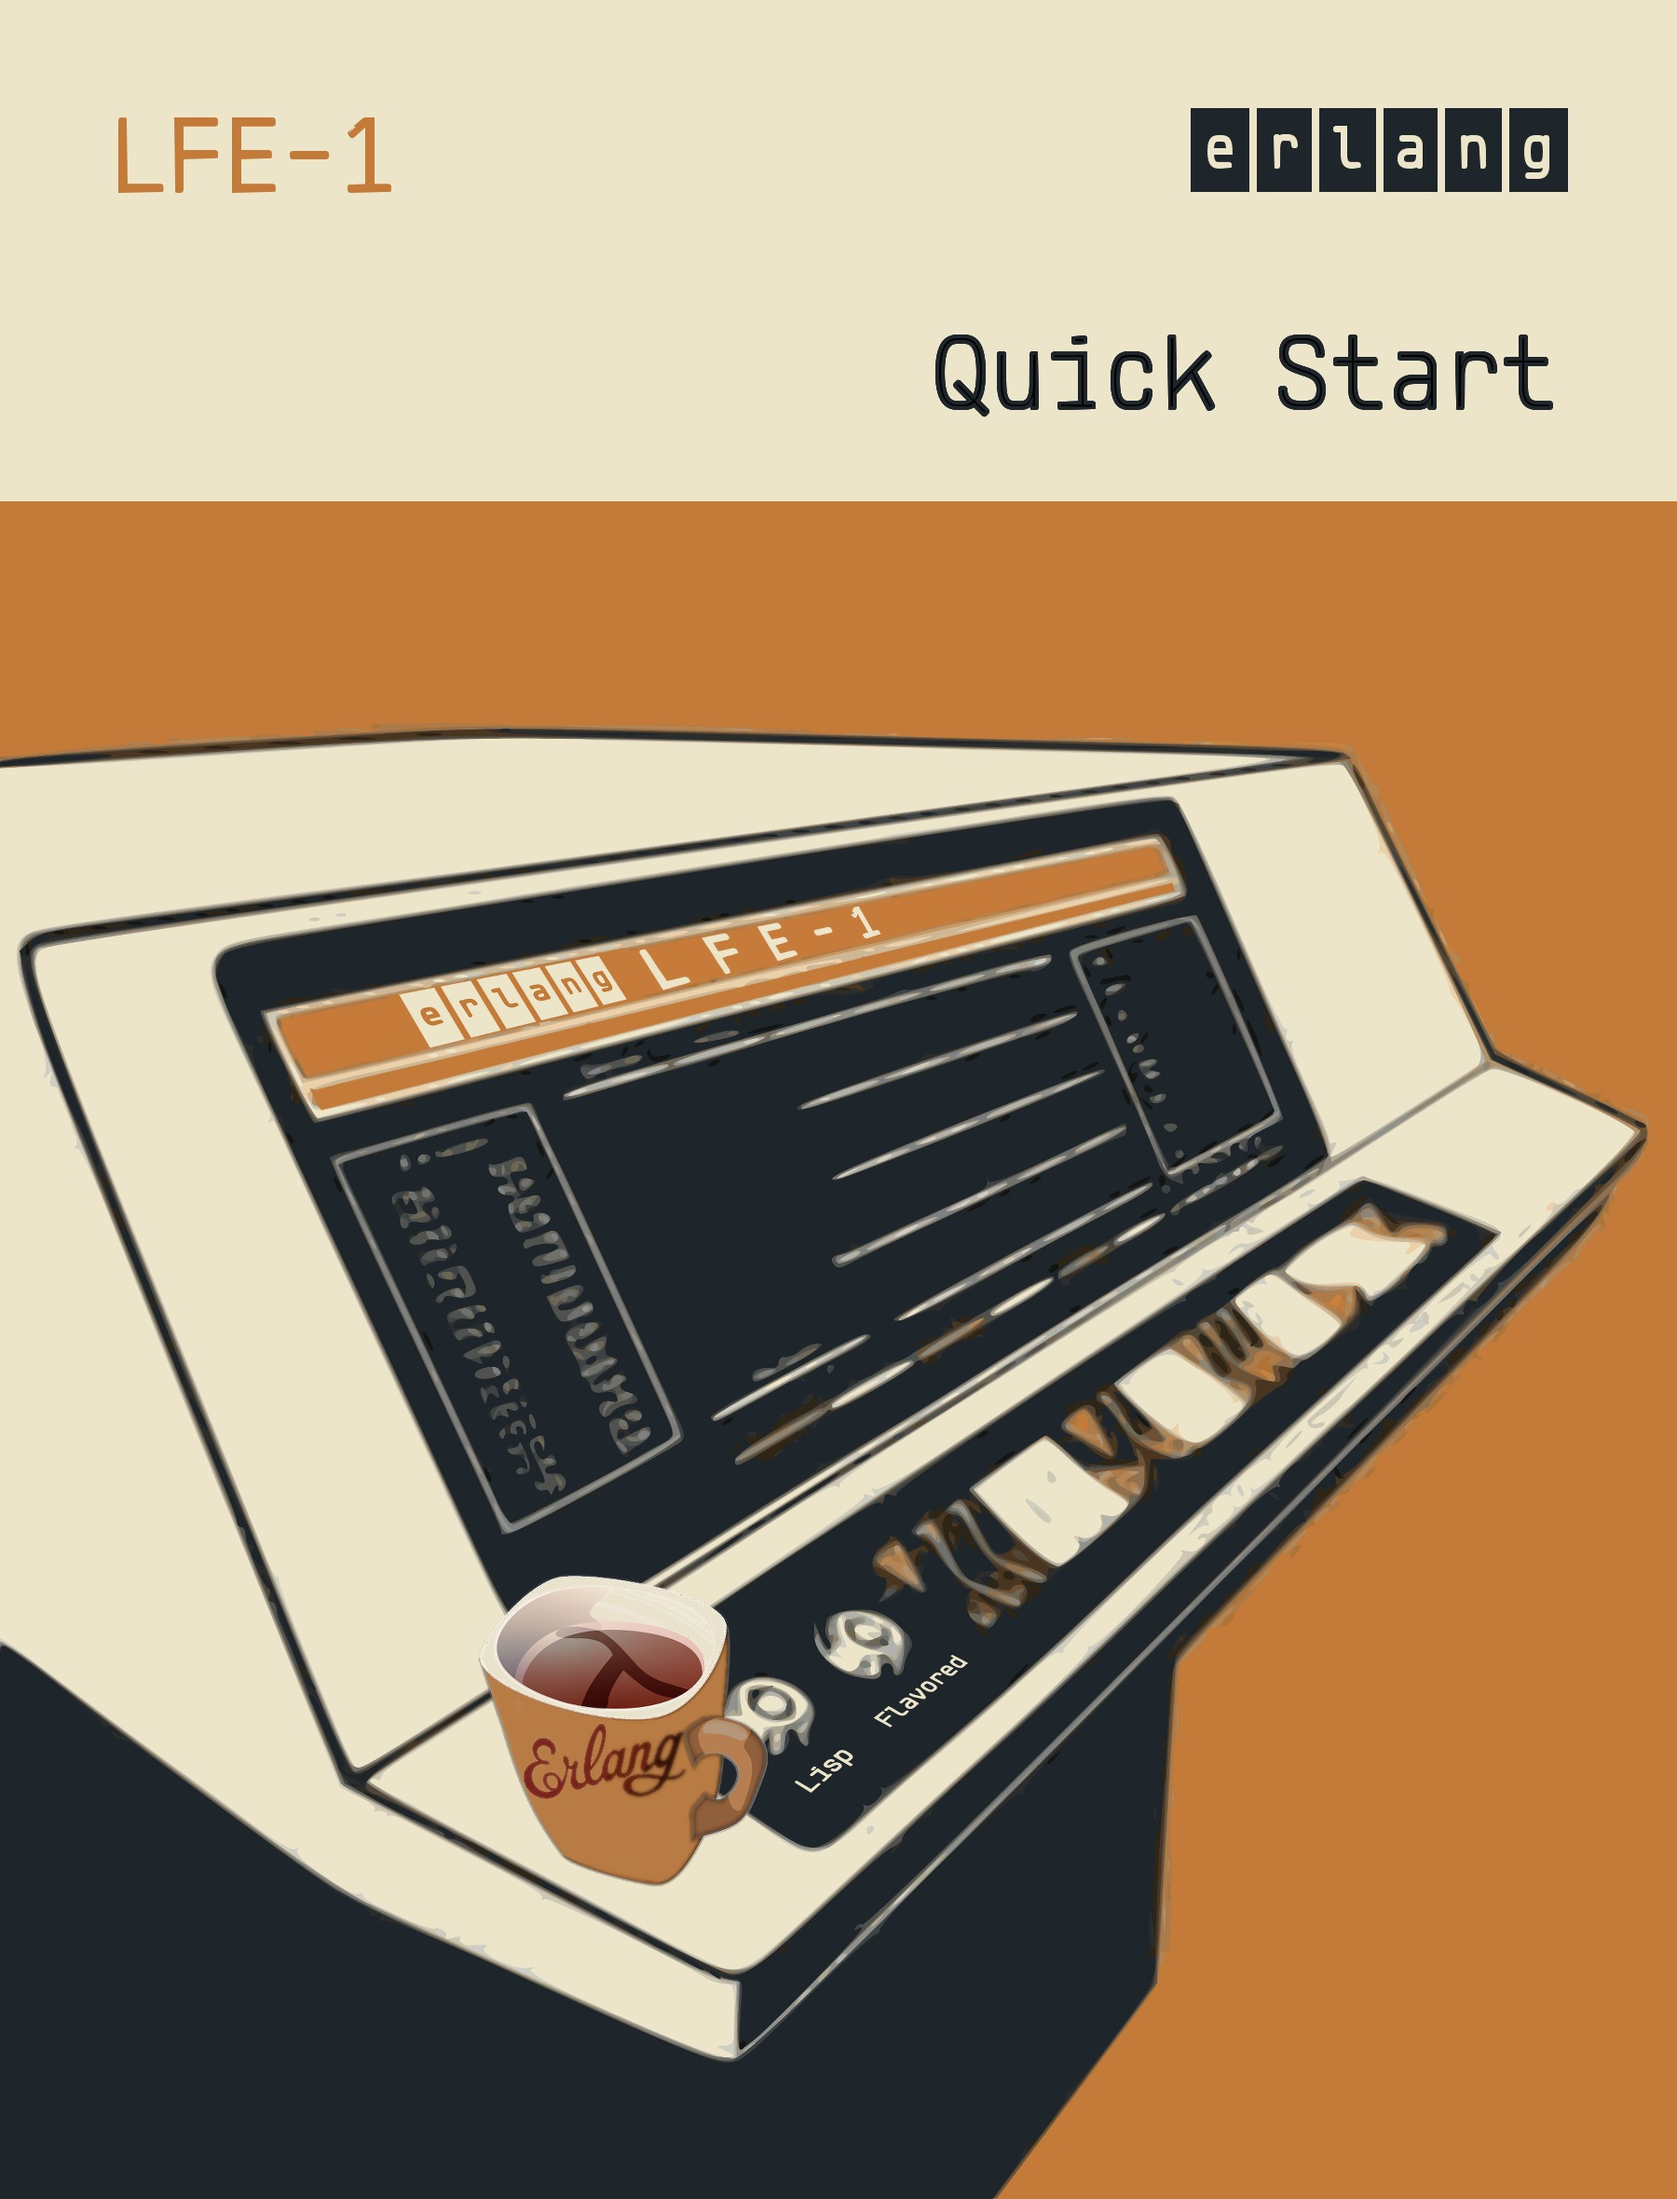
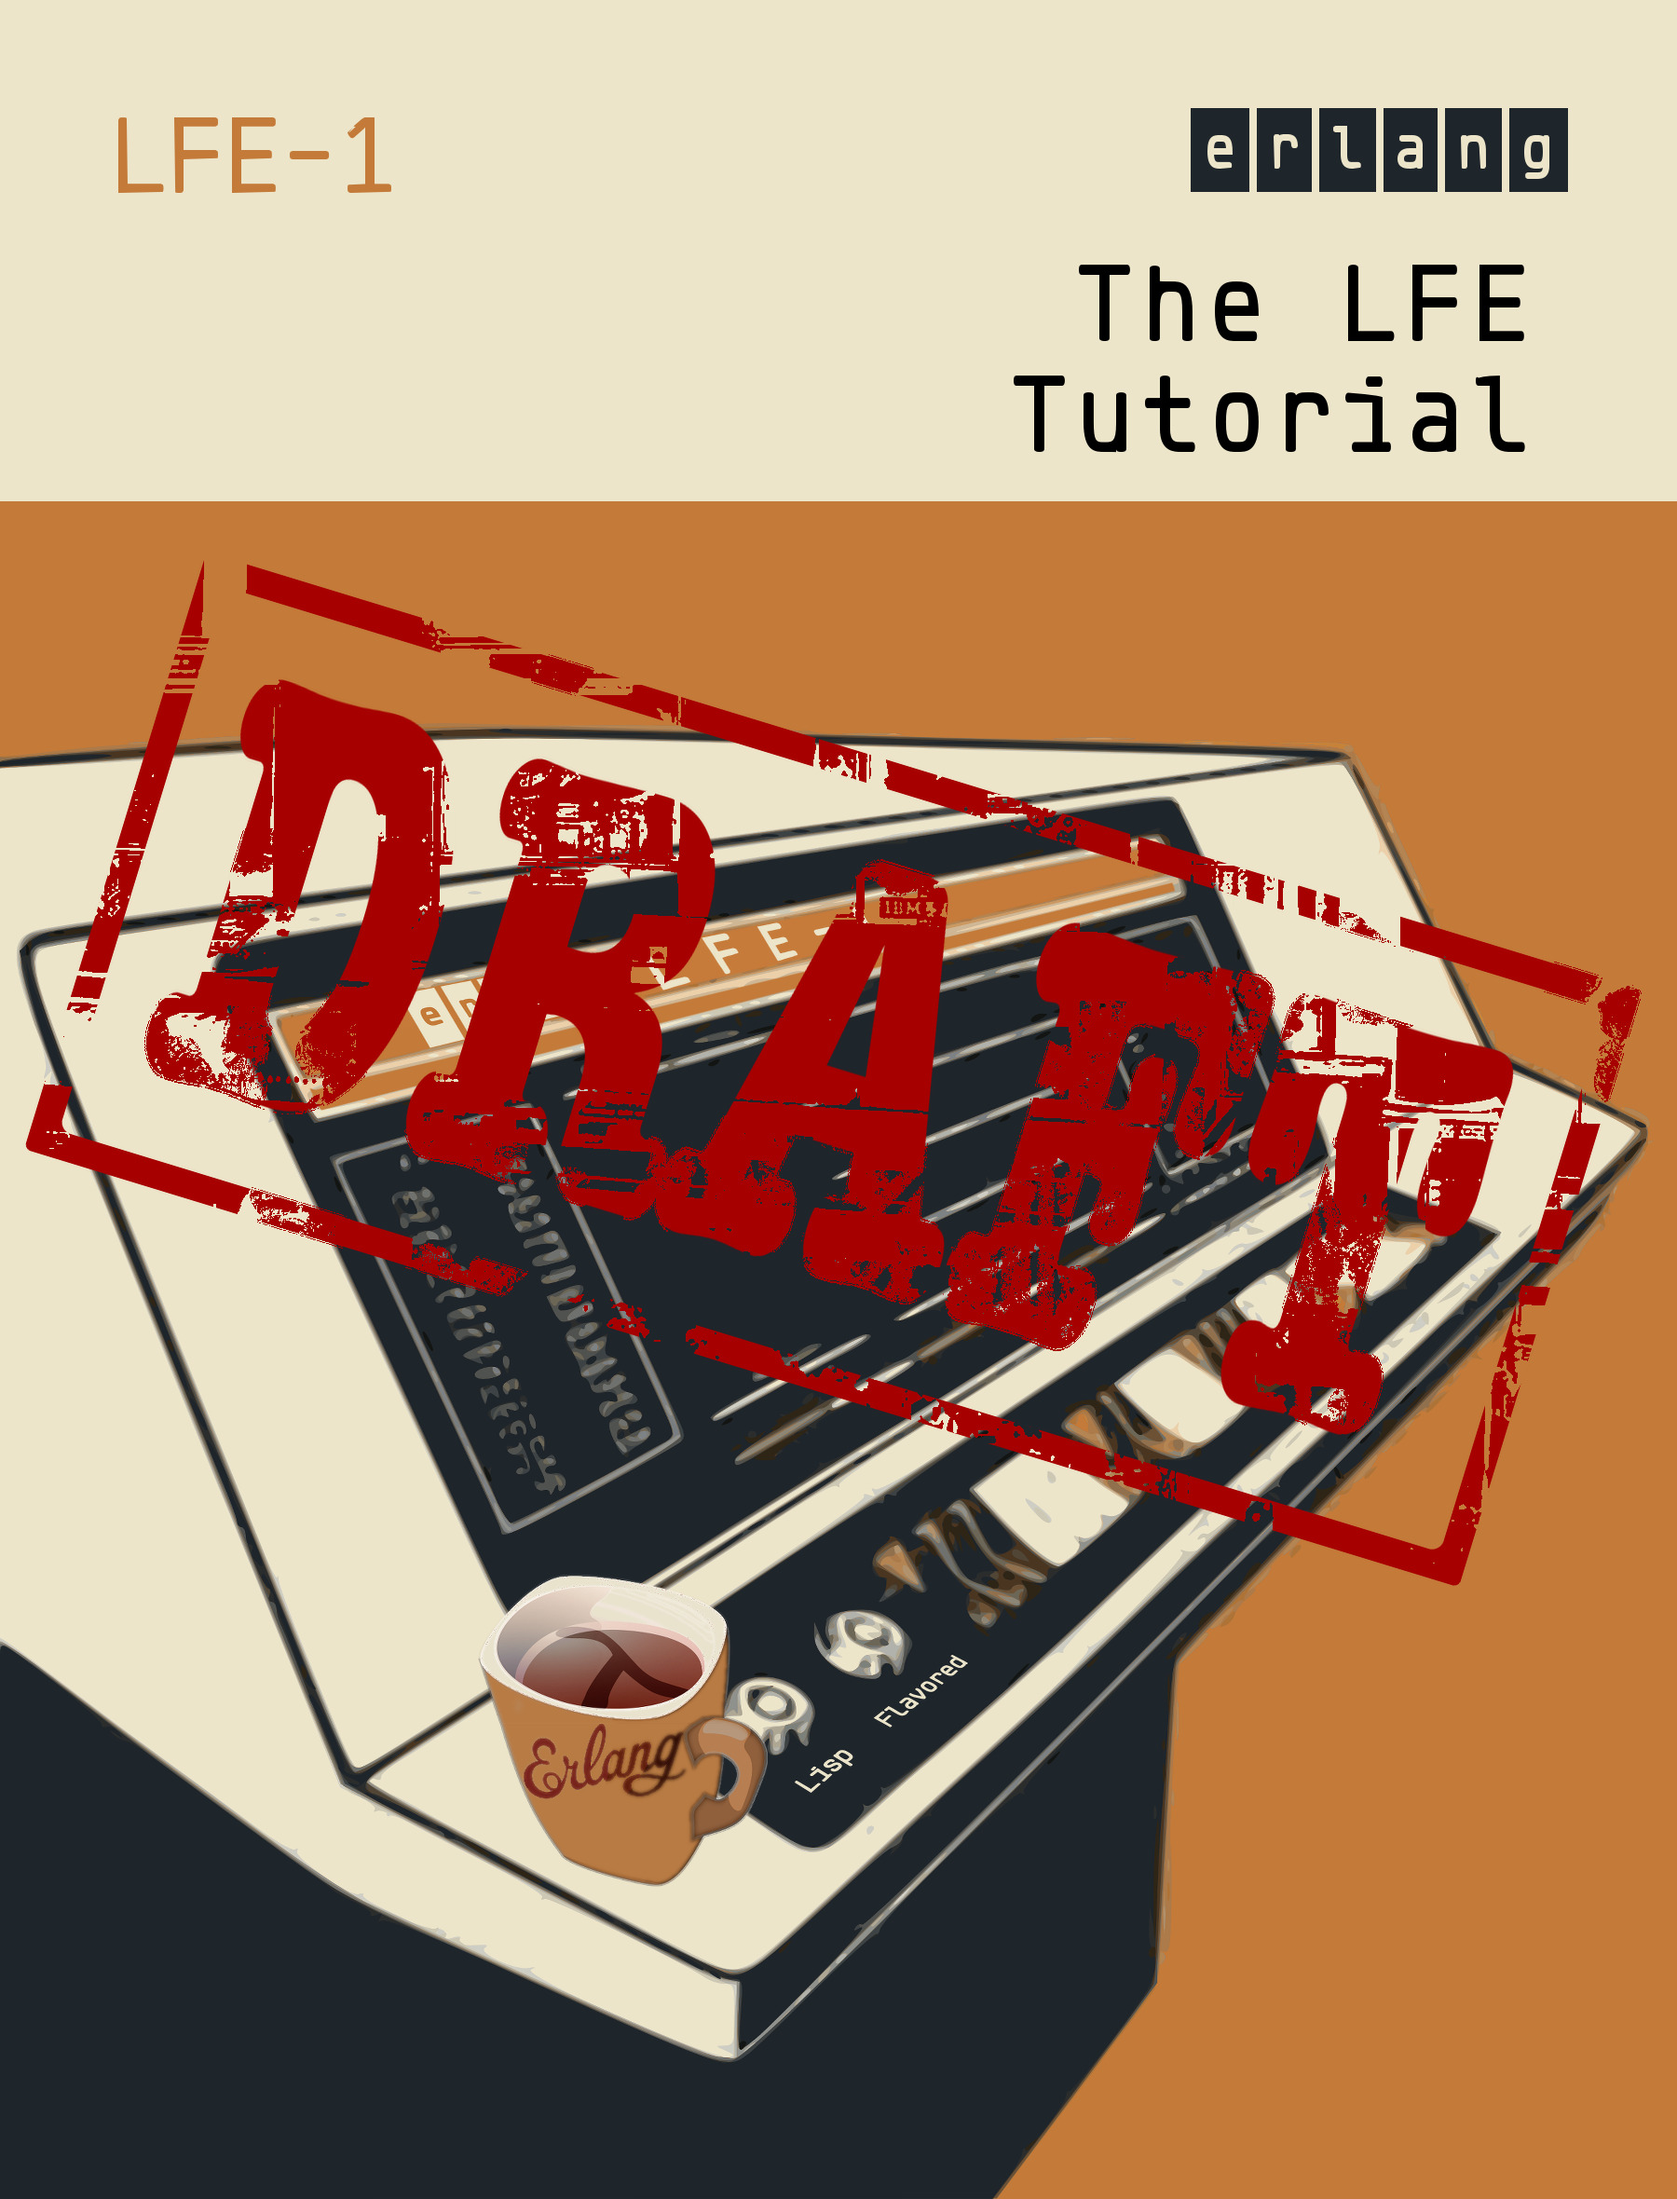
Updated files for tutorial.

Changed region(s): [[0.0, 0.2475, 0.9956, 0.7424], [0.56, 0.1237, 0.9333, 0.2165]]

diff --git a/README.md b/README.md
@@ -1,14 +1,71 @@
-# Quick Start
+# The LFE Tutorial
+
+The LFE Tutorial is based on the Erlang tutorial [Getting Started with
+Erlang](http://www.erlang.org/doc/getting_started/intro.html)
+
+The members of the LFE community are
+[working torward](https://github.com/lfe/docs/issues/40)
+a more comprehensive LFE tutorial, but we wanted to
+[get something out](https://github.com/lfe/docs/issues/42)
+sooner rather than later, so we're starting with this. On the positive side,
+it's material that has already been created and we have only had to make syntax
+changes and other edits at our discretion. On less positive side, since this
+tutorial is not comprehensive (i.e., it doesn't start from absolute basics)
+some knowledge is presumed.
 
 
 ## Introduction
 
-In this LFE quick start, we will cover the following:
+This is a "kick start" tutorial to get you started with LFE. Everything here
+is true, but only part of the truth. For example, we will typically only cover
+simpler syntax and not explore all the esoteric forms. However, for the curious
+reader we've annotated where one may get more detailed information on topics
+covered lightly (or skipped entirely).
 
-* Getting the LFE source code
-* Running code in the LFE REPL
-* Creating an LFE module
-* Additional resources
 
-In essence, this guide will give you what you need in order to jump into LFE at
-ludicrous speed.
+## Prerequisites
+
+* Basic to intermediate skills in a programming language.
+* Exposure to the concepts behind Erlang via other media such as the Erlang web
+  site, Erlang conference presentations, and books such as the following:
+  * [Concurrent Programming in ERLANG](http://www.erlang.org/download/erlang-book-part1.pdf)
+  * [Learn You Some Erlang for great good!](http://learnyousomeerlang.com/)
+  * [Programming Erlang](https://pragprog.com/book/jaerlang2/programming-erlang)
+  * [Erlang and OTP in Action](http://www.manning.com/logan/)
+  * [Erlang Programming](http://shop.oreilly.com/product/9780596518189.do)
+* Exposure to a Lisp, whether by reading books or from a cource in school (it
+  will be most helpful if you've had experience with Common Lisp, and LFE has
+  more in common with Lisp-2s than with Lisp-1s like Schemes and Clojure).
+
+
+## What Is Covered
+
+This tutorial covers the following topics:
+
+* Sequential programming (installing LFE, the REPL, functions, modules, data
+  types, the standard library, writing to the terminal, pattern matching,
+  guards, conditionals, built-in functiions, and higher-order functions)
+* Concurrent programming (processes, message passing, registered processes,
+  and distributed programming)
+* Robustness (timeouts and error handling)
+* Records and macros (header files, records, and macros)
+
+
+## What Has Been Left Out
+
+The following topics has been omitted from this tutorial:
+
+* Erlang References
+* Local error handling (catch/throw)
+* Single direction links (monitor)
+* Handling of binary data (binaries / bit syntax)
+* List comprehensions
+* How to communicate with the outside world and/or software written in other
+  languages (ports).
+* Very few of the Erlang libraries have been touched on (for example file
+  handling)
+* OTP has been totally skipped and in consequence the Mnesia database has been
+  skipped.
+* Hash tables for Erlang terms (ETS)
+* Changing code in running systems
+

diff --git a/SUMMARY.md b/SUMMARY.md
@@ -1,6 +1,37 @@
 # Summary
 
 * [Introduction](README.md)
+* [Sequential Programming](part1/README.md)
+  * [Installing LFE](part1/install.md)
+  * [The REPL](part1/repl.md)
+  * [Modules and Functions](part1/modfunc.md)
+  * [Atoms](part1/atoms.md)
+  * [Lists](part1/lists.md)
+  * [Property Lists and Maps](part1/propmaps.md)
+  * [The Erlang Standard Library](part1/stdlib.md)
+  * [Writing Output to a Terminal](part1/output.md)
+  * [Example: Converting Temperature](part1/example.md)
+  * [Matching, Guards and Scope of Variables](part1/matching.md)
+  * [More About Lists](part1/morelists.md)
+  * [Conditionals](part1/conds.md)
+  * [Built-in Functions)(part1/bifs.md)
+  * [Higher Order Functions](part1/hofs.md)
+* [Concurrent Programming](part2/README.md)
+  * [Processes](part2/processes.md)
+  * [Message Passing](part2/msgpass.md)
+  * [Registered Process Names](part2/names.md)
+  * [Distributed Programming](part2/dist.md)
+  * [Example: Messenger](part2/example.md)
+* [Robustness](part3/README.md)
+  * [Timeouts](part3/timeouts.md)
+  * [Error Handling](part3/errors.md)
+  * [Example: Robust Messenger](part3/example.md)
+* [Records and Macros](part4/README.md)
+  * [Modularising](part4/mods.md)
+  * [Header Files](part4/headers.md)
+  * [Records](part4/records.md)
+  * [Macros](part4/macros.md)
+* [Conclusion](part4/conclusion.md)
 * [Getting LFE](1.md)
 * [The LFE REPL](2.md)
 * [LFE Modules](3.md)
